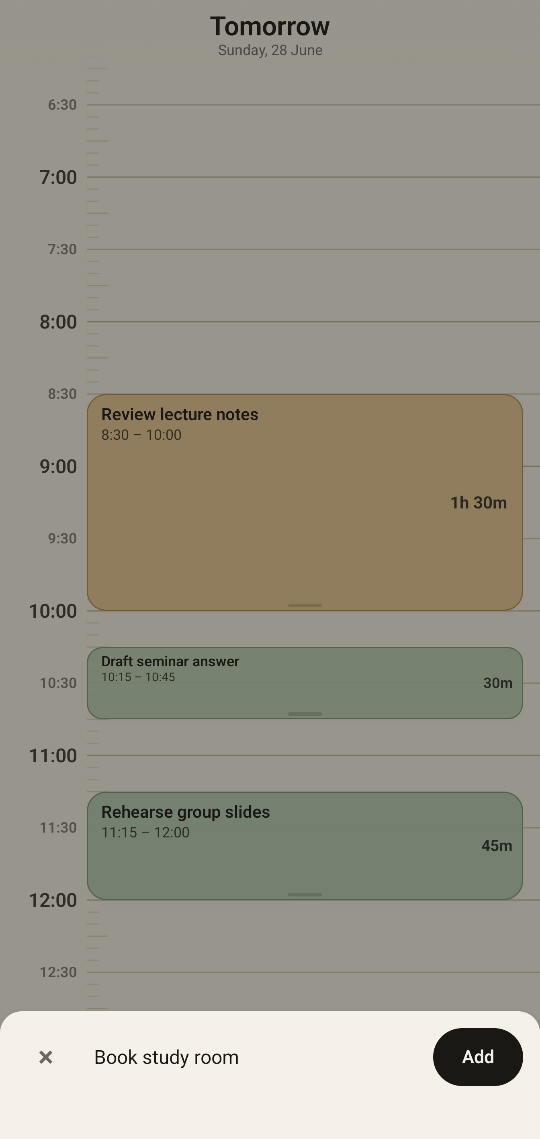
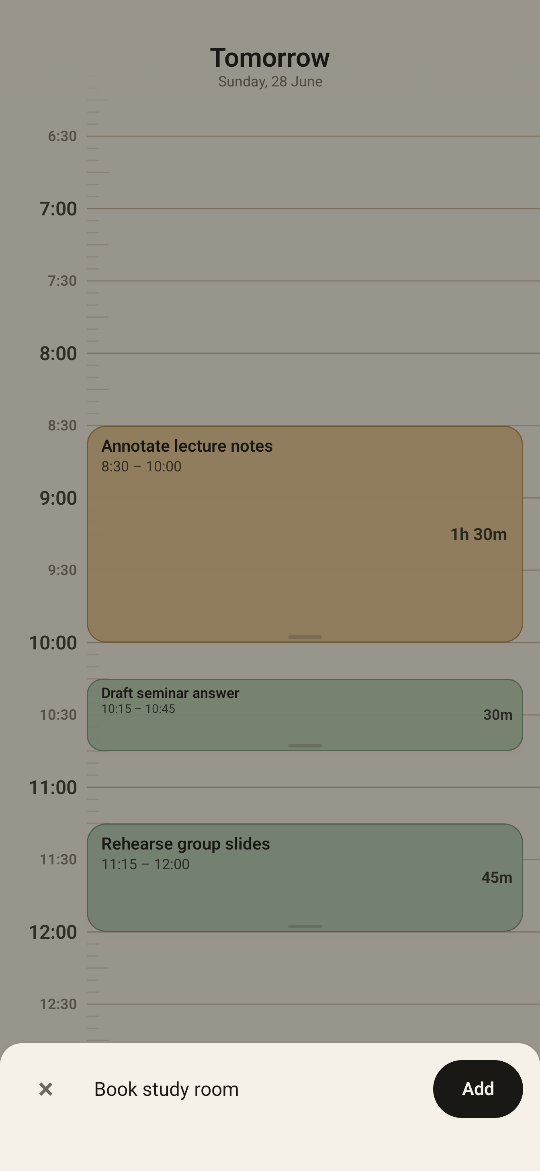
Keep README screenshots realistic

diff --git a/app/src/main/java/com/privateplanner/ui/PlannerTheme.kt b/app/src/main/java/com/privateplanner/ui/PlannerTheme.kt
@@ -240,11 +240,8 @@ private fun darkSchemeFrom(c: PlannerPalette) = darkColorScheme(
 )
 
 @Composable
-fun PlannerTheme(
-    currentMinuteOverride: Int? = null,
-    content: @Composable () -> Unit
-) {
-    val currentMinute = currentMinuteOverride ?: rememberCurrentMinuteOfDay()
+fun PlannerTheme(content: @Composable () -> Unit) {
+    val currentMinute = rememberCurrentMinuteOfDay()
     val daylight = daylightFactor(currentMinute)
     val palette = paletteForTime(currentMinute)
     val lightBackground = daylight >= LightInkThreshold

diff --git a/app/src/main/java/com/privateplanner/ui/PlannerViewModel.kt b/app/src/main/java/com/privateplanner/ui/PlannerViewModel.kt
@@ -23,15 +23,14 @@ import kotlinx.coroutines.flow.stateIn
 import kotlinx.coroutines.launch
 
 class PlannerViewModel(
-    private val repository: PlannerRepository,
-    initialScrollTargetMinutes: Int? = openingScrollTarget()
+    private val repository: PlannerRepository
 ) : ViewModel() {
     private val selectedDate = MutableStateFlow(LocalDate.now())
     private val blockCache = MutableStateFlow<Map<LocalDate, List<PlannerBlock>>>(emptyMap())
     private val sheet = MutableStateFlow<PlannerSheet?>(null)
     private val snackbar = MutableStateFlow<PlannerSnackbar?>(null)
     private val createError = MutableStateFlow<String?>(null)
-    private val scrollTargetMinutes = MutableStateFlow(initialScrollTargetMinutes)
+    private val scrollTargetMinutes = MutableStateFlow<Int?>(openingScrollTarget())
     private val pendingTimeUpdates = mutableMapOf<Long, PendingTimeUpdate>()
     private val timeWriteJobs = mutableMapOf<Long, Job>()
     private val prefetchJobs = mutableMapOf<LocalDate, Job>()